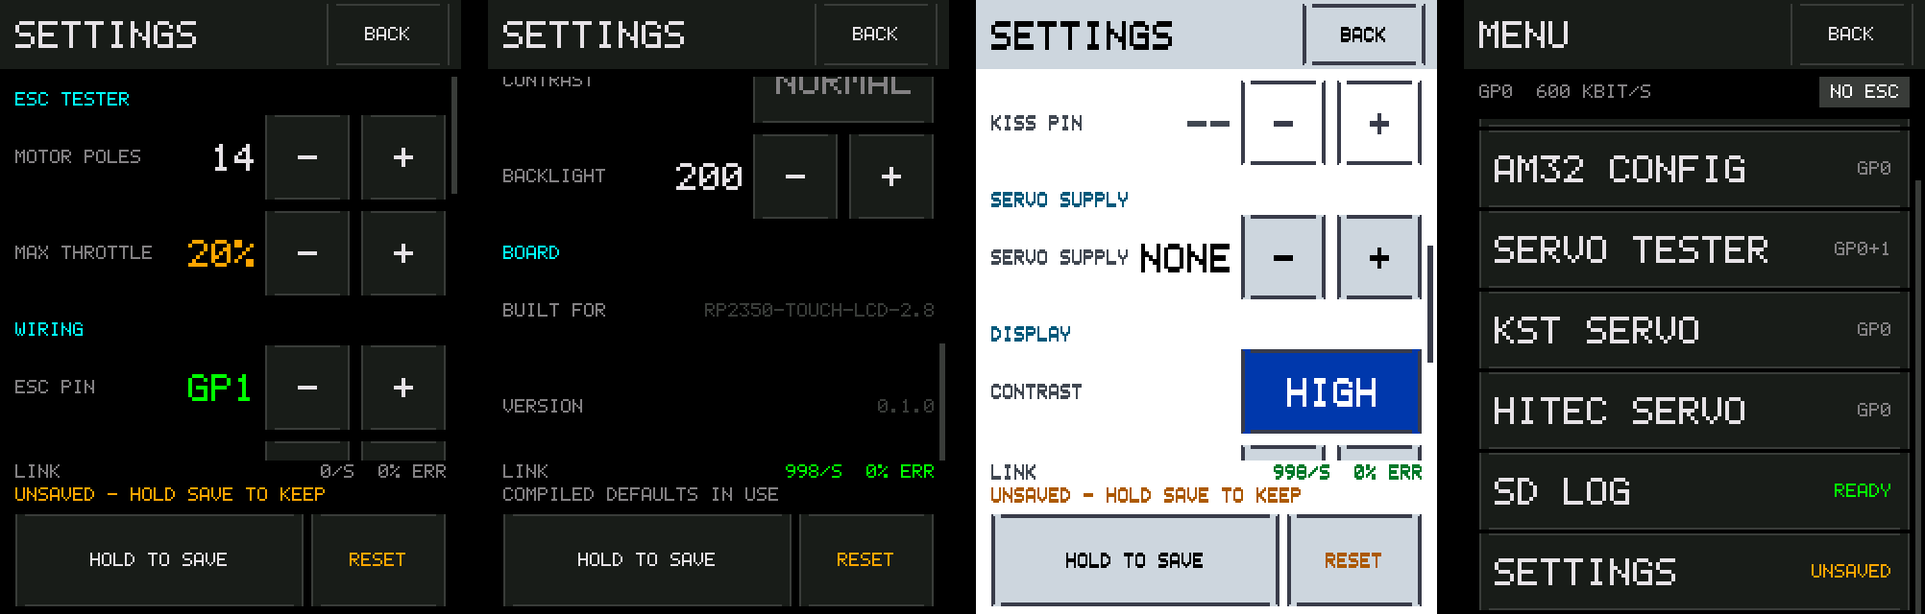
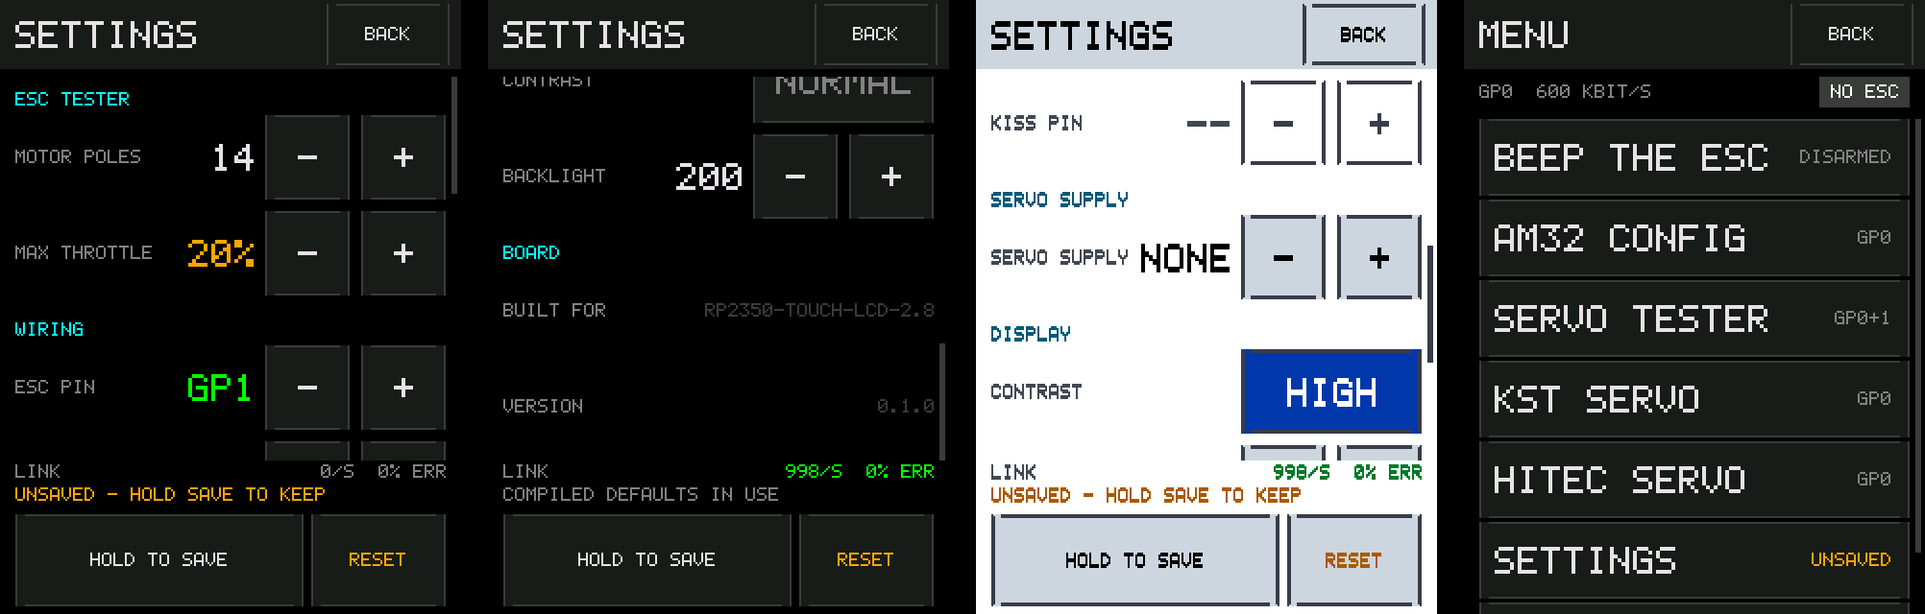
MENU: SETTINGS is the sixth row, SD LOG the seventh
Six rows fit the 240x320 screen and the seventh needs a 36 px drag, so
SETTINGS showed 6 px and its UNSAVED status was hidden after leaving it.
Swap the last two registry entries; update the tests, previews and docs.

Changed region(s): [[0.7735, 0.1875, 1.0, 1.0], [0.9591, 0.375, 0.99, 0.4062]]

diff --git a/test/test_menu.cpp b/test/test_menu.cpp
@@ -229,18 +229,21 @@ static void testPinsBusy() {
 	bool busySeen = uiCurrentScreen() == UiScreenId::Menu && pinClaimState() != ClaimState::Free;
 	checkTrue("RESTART DSHOT returns to MENU while the claim restores", busySeen);
 	if (busySeen) {
-		// SETTINGS is MENU's seventh row: a drag brings it whole, with no pump
-		// pass, so the claim stays Restoring.
-		fakePress(120, 250); framesNoPump(1);
-		for (int k = 1; k <= 12; k++) { fakeHold(120, 250 - 6 * k); framesNoPump(1); }
-		fakeRelease(); framesNoPump(1);
+		// SETTINGS is MENU's sixth row, whole at scroll 0. SD LOG is the
+		// seventh: a drag brings it whole, with no pump pass, so the claim
+		// stays Restoring.
 		const UiControlId settingsRow = UI_ROW(uiMenuRowOf(&UI_SETTINGS), Row);
-		checkInt("SETTINGS' row is whole", ctlRect(settingsRow).h, 40);
+		checkInt("SETTINGS' row is whole without a drag", ctlRect(settingsRow).h, 40);
 		checkTrue("SERVO TESTER does not act", !ctlEnabled(menuRow(&UI_SERVO)));
 		checkTrue("nor AM32 CONFIG", !ctlEnabled(menuRow(&UI_AM32)));
 		checkTrue("nor SETTINGS, which changes the wiring the claim latched",
 		          !ctlEnabled(settingsRow));
-		checkTrue("SD LOG, which claims nothing, acts", ctlEnabled(menuRow(&UI_SDLOG)));
+		fakePress(120, 250); framesNoPump(1);
+		for (int k = 1; k <= 12; k++) { fakeHold(120, 250 - 6 * k); framesNoPump(1); }
+		fakeRelease(); framesNoPump(1);
+		const UiControlId logRow = UI_ROW(uiMenuRowOf(&UI_SDLOG), Row);
+		checkInt("SD LOG's row is whole after the drag", ctlRect(logRow).h, 40);
+		checkTrue("SD LOG, which claims nothing, acts", ctlEnabled(logRow));
 		fakeDumpFrame("shot_menu_pins_busy.ppm");
 		UiControl c;
 		ctlFind(menuRow(&UI_SERVO), &c);
@@ -273,9 +276,9 @@ static void testMenuScroll() {
 	};
 	static const UiMenuEntry seven[] = {
 		{ "BEEP THE ESC", 8, &UI_BEEP }, { "AM32 CONFIG", 9, &UI_AM32 },
-		{ "SERVO TESTER", 9, &UI_SERVO }, { "SD LOG", 10, &UI_SDLOG },
-		{ "SETTINGS", 9, &UI_SETTINGS }, { "SD LOG", 10, &UI_SDLOG },
-		{ "SETTINGS", 9, &UI_SETTINGS },
+		{ "SERVO TESTER", 9, &UI_SERVO }, { "KST SERVO", 9, &UI_KST },
+		{ "HITEC SERVO", 9, &UI_HITEC }, { "SETTINGS", 9, &UI_SETTINGS },
+		{ "SD LOG", 10, &UI_SDLOG },
 	};
 	freshTester();
 
@@ -306,6 +309,32 @@ static void testMenuScroll() {
 	checkControlTable("MENU of seven, scrolled");
 	tapId(UI_FIX(UI_BACK));
 	uiMenuUseRegistry(nullptr, 0);
+}
+
+/** @brief The built registry: SETTINGS is the sixth row, whole and tappable at 0 px. */
+static void testSettingsRowVisible() {
+	section("MENU: SETTINGS is the sixth row, whole without a drag");
+	freshTester();
+	uiMenuUseRegistry(nullptr, 0);
+	openMenu();
+	checkInt("SETTINGS is the sixth row", uiMenuRowOf(&UI_SETTINGS), 5);
+	checkInt("SD LOG is the seventh row", uiMenuRowOf(&UI_SDLOG), 6);
+	const UiControlId settingsRow = UI_ROW(5, Row);
+	checkInt("SETTINGS is whole at 0 px", ctlRect(settingsRow).h, 40);
+	checkInt("and ends at y 311", ctlRect(settingsRow).y + ctlRect(settingsRow).h, 312);
+	checkTrue("SD LOG, the seventh, is cut at 0 px", !ctlEnabled(UI_ROW(6, Row)));
+	checkTrue("SETTINGS acts at 0 px", ctlEnabled(settingsRow));
+	tapId(settingsRow);
+	checkTrue("a tap with no drag opens SETTINGS", uiCurrentScreen() == UiScreenId::Settings);
+	tapId(UI_FIX(UI_BACK));
+	checkTrue("BACK lands on MENU", uiCurrentScreen() == UiScreenId::Menu);
+	checkTrue("SD LOG is cut again at 0 px", !ctlEnabled(UI_ROW(6, Row)));
+	checkTrue("a drag brings SD LOG whole and acts",
+	          ctlEnabled(menuRow(&UI_SDLOG)) && ctlRect(UI_ROW(6, Row)).h == 40);
+	tapId(menuRow(&UI_SDLOG));
+	checkTrue("and a tap opens SD LOG", uiCurrentScreen() == UiScreenId::SdLog);
+	tapId(UI_FIX(UI_BACK));
+	tapId(UI_FIX(UI_BACK));
 }
 
 /** @brief Opens SETTINGS from a fresh tester. */
@@ -613,9 +642,9 @@ static void testMenuScrollResets() {
 	section("MENU: a tool's return opens MENU at 0 px");
 	static const UiMenuEntry seven[] = {
 		{ "BEEP THE ESC", 8, &UI_BEEP }, { "AM32 CONFIG", 9, &UI_AM32 },
-		{ "SERVO TESTER", 9, &UI_SERVO }, { "SD LOG", 10, &UI_SDLOG },
-		{ "SETTINGS", 9, &UI_SETTINGS }, { "SD LOG", 10, &UI_SDLOG },
-		{ "SETTINGS", 9, &UI_SETTINGS },
+		{ "SERVO TESTER", 9, &UI_SERVO }, { "KST SERVO", 9, &UI_KST },
+		{ "HITEC SERVO", 9, &UI_HITEC }, { "SETTINGS", 9, &UI_SETTINGS },
+		{ "SD LOG", 10, &UI_SDLOG },
 	};
 	freshTester();
 	uiMenuUseRegistry(seven, 7);
@@ -625,7 +654,7 @@ static void testMenuScrollResets() {
 	fakeRelease(); menuFrames(1);
 	checkInt("scrolled 36 px: the seventh row at y 278", ctlRect(UI_ROW(6, Row)).y, 278);
 	tapId(UI_ROW(6, Row));
-	checkTrue("its SETTINGS opens", uiCurrentScreen() == UiScreenId::Settings);
+	checkTrue("its SD LOG opens", uiCurrentScreen() == UiScreenId::SdLog);
 	tapId(UI_FIX(UI_BACK));
 	checkTrue("BACK lands on MENU", uiCurrentScreen() == UiScreenId::Menu);
 	checkTrue("at 0 px: the first row whole at y 62",
@@ -678,6 +707,7 @@ void runMenuTests() {
 	testMenuDisarmAndBeep();
 	testPinsBusy();
 	testMenuScroll();
+	testSettingsRowVisible();
 	testSettingsScroll();
 	testSettingsCutControl();
 	testSettingsRows();

diff --git a/test/test_ui.cpp b/test/test_ui.cpp
@@ -1221,6 +1221,10 @@ static void testSettingsSave() {
 	tapId(UI_FIX(UI_BACK));
 	frames(2);
 	checkTrue("BACK from SETTINGS reaches MENU", uiCurrentScreen() == UiScreenId::Menu);
+	// MENU opens at 0 px: the SETTINGS row, the sixth, is whole and its
+	// status shows with no drag.
+	checkInt("MENU's SETTINGS row is whole at 0 px, no drag",
+	         ctlRect(UI_ROW(uiMenuRowOf(&UI_SETTINGS), Row)).h, 40);
 	checkTrue("MENU's SETTINGS row reads UNSAVED in amber",
 	          menuStatusIs(ctlRect(menuRow(&UI_SETTINGS)), "UNSAVED", C_AMBER, C_PANEL));
 	fakeDumpFrame("shot_menu_unsaved.ppm");
@@ -2484,11 +2488,10 @@ static void testHitBoundaries() {
 	checkTrue("the tester's MENU opens MENU", uiCurrentScreen() == UiScreenId::Menu);
 
 	// MENU's rows are 40 px tall at a 42 px pitch: BEEP ends where the gap
-	// above AM32 CONFIG starts, and SD LOG where the gap above SETTINGS
-	// starts. A tap in either gap must hit neither neighbour -- an inclusive
+	// above AM32 CONFIG starts, and SETTINGS where the gap below it starts. A tap in either gap must hit neither neighbour -- an inclusive
 	// far edge would make adjacent rows overlap.
 	const UiRect beep  = ctlRect(menuRow(&UI_BEEP));
-	const UiRect sdlog = ctlRect(menuRow(&UI_SDLOG));
+	const UiRect settingsRow = ctlRect(menuRow(&UI_SETTINGS));
 	int beeps = fakeBeepRequests();
 	tap(beep.x + beep.w / 2, beep.y + beep.h);
 	frames(2);
@@ -2496,9 +2499,9 @@ static void testHitBoundaries() {
 	checkTrue("and opens nothing", uiCurrentScreen() == UiScreenId::Menu);
 	tap(beep.x + beep.w, beep.y + beep.h / 2);
 	checkInt("one past BEEP's right edge sends nothing", fakeBeepRequests(), beeps);
-	tap(sdlog.x + sdlog.w / 2, sdlog.y + sdlog.h);
+	tap(settingsRow.x + settingsRow.w / 2, settingsRow.y + settingsRow.h);
 	frames(2);
-	checkTrue("a tap in the SD LOG/SETTINGS gap left MENU up",
+	checkTrue("a tap in the gap below SETTINGS left MENU up",
 	          uiCurrentScreen() == UiScreenId::Menu);
 	tap(beep.x + beep.w / 2, beep.y + beep.h - 1);
 	checkInt("BEEP's last pixel row is BEEP", fakeBeepRequests(), beeps + 1);
@@ -2550,11 +2553,11 @@ static void testMenuDestinations() {
 	uint8_t rows = 0;
 	uiMenuEntries(&rows);
 	checkInt("MENU has seven rows", rows, 7);
-	checkTrue("BEEP, AM32 CONFIG, SERVO TESTER, KST SERVO, HITEC SERVO, SD LOG, SETTINGS, in that order",
+	checkTrue("BEEP, AM32 CONFIG, SERVO TESTER, KST SERVO, HITEC SERVO, SETTINGS, SD LOG, in that order",
 	          uiMenuRowOf(&UI_BEEP) == 0 && uiMenuRowOf(&UI_AM32) == 1 &&
 	          uiMenuRowOf(&UI_SERVO) == 2 && uiMenuRowOf(&UI_KST) == 3 &&
-	          uiMenuRowOf(&UI_HITEC) == 4 && uiMenuRowOf(&UI_SDLOG) == 5 &&
-	          uiMenuRowOf(&UI_SETTINGS) == 6);
+	          uiMenuRowOf(&UI_HITEC) == 4 && uiMenuRowOf(&UI_SETTINGS) == 5 &&
+	          uiMenuRowOf(&UI_SDLOG) == 6);
 
 	// A pixel inside each row, clear of its label: the panel fill of a row.
 	// It is 5 px in from the left edge and 8 px down from the top.
@@ -2919,6 +2922,7 @@ static void testPressedLookClears() {
 	tapId(UI_FIX(UI_BACK));
 	frames(2);
 	checkTrue("BACK from SD LOG reaches MENU", uiCurrentScreen() == UiScreenId::Menu);
+	menuRow(&UI_SDLOG);                       // MENU opens at 0 px: drag to the row again
 	checkTrue("and the row is at rest",
 	          fakeRegionHash(log.x, log.y, log.w, log.h) == idle);
 

diff --git a/src/ui_registry.cpp b/src/ui_registry.cpp
@@ -19,8 +19,8 @@ constexpr UiMenuEntry UI_MENU[] = {
 	{ "SERVO TESTER",  9, &UI_SERVO    },   // ui_servo.cpp: GP0+1, PINS BUSY
 	{ "KST SERVO",     9, &UI_KST      },   // ui_kst.cpp: GP0, PINS BUSY
 	{ "HITEC SERVO",   9, &UI_HITEC    },   // ui_hitec.cpp: GP0, PINS BUSY
-	{ "SD LOG",       10, &UI_SDLOG    },   // ui_sdlog.cpp: CARD ERROR
 	{ "SETTINGS",      9, &UI_SETTINGS },   // ui_settings.cpp: PINS BUSY, UNSAVED
+	{ "SD LOG",       10, &UI_SDLOG    },   // ui_sdlog.cpp: CARD ERROR
 };
 constexpr uint8_t UI_MENU_COUNT = (uint8_t)(sizeof(UI_MENU) / sizeof(UI_MENU[0]));
 

diff --git a/STATUS.md b/STATUS.md
@@ -206,7 +206,7 @@ record either way.
 | Blackbox logs in `LOGS/` (`SD_LOG_DIR_PATH`) | none: `sd_log.cpp` is typechecked only | not tested on hardware |
 | SD write cache for the backup claims (`src/sdio/sd_cache.*`, `src/card_cache.*`, the glue in `src/sdio/sd_card_glue.c`, `sdh_write_start()` and `sdh_write_poll()`); [sd-write-cache.md](docs/design/sd-write-cache.md) | the cache against a fake card (`runSdCacheTests`), the asynchronous block write against the simulated card (`runSdioTests`); the KST write waiting for the flush, a failed flush, the claim turning the cache on and off, a running log stopped, AM32's write refused after a failed flush, against a fake of `card_cache.h`; the glue and `card_cache.cpp` are built by the firmware only | not tested on hardware |
 | Pin claim (`src/pin_claim.*`) and core1 job dispatch (`src/core1_job.*`), the zero-throttle drain in `src/esc_task.*` | each refusal rule at its 500 ms boundary and their order; the handover decisions of `escTaskPoll()` (`escHandoverStep()`, `escDrainSlot()`, `escPumpFrameSent()`, `escPumpBind()`) one 1 ms slot at a time: 250 zero frames, the teardown 251 ms after the last throttle frame, the bind disarmed; the order of the two cores' steps against fake jobs, BACK and RETRY, Restoring, the unplug-page rule, the restore wiring, the start guard, the heartbeat rule across a millis() rollover; the PIO and pad calls around those decisions are compiled only | not tested on hardware; open item 8 |
-| MENU layout (`src/ui_menu.cpp`, `src/ui_registry.cpp`): BEEP THE ESC, AM32 CONFIG, SERVO TESTER, KST SERVO, HITEC SERVO, SD LOG and SETTINGS as 40 px rows, scrolled 36 px to reach SETTINGS | every registry entry opens and BACK returns to MENU; opening MENU disarms; BEEP's flash and refusal on its row; `PINS BUSY` while the claim restores and a tap on it opens nothing; six rows do not scroll and seven scroll 36 px; the label and status fit check at build time | not recorded |
+| MENU layout (`src/ui_menu.cpp`, `src/ui_registry.cpp`): BEEP THE ESC, AM32 CONFIG, SERVO TESTER, KST SERVO, HITEC SERVO, SETTINGS and SD LOG as 40 px rows, scrolled 36 px to reach SD LOG | every registry entry opens and BACK returns to MENU; opening MENU disarms; BEEP's flash and refusal on its row; `PINS BUSY` while the claim restores and a tap on it opens nothing; six rows do not scroll and seven scroll 36 px; SETTINGS, the sixth row, is whole and takes a tap at 0 px, and SD LOG, the seventh, is cut until MENU is dragged; the UNSAVED status shows on MENU at 0 px after leaving SETTINGS; the label and status fit check at build time | not recorded |
 | Servo tester: the pure model (`src/servo_model.*`), the PWM driver (`src/servo_pwm.*`), the core1 job (`src/servo_job.*`), the slider and the screens (`src/ui_slider.*`, `src/ui_servo.cpp`); rcbench's sweep and PWM fold in `lib/rcbench/` | profiles, limits at their boundaries, steppers to their stops, command, angle and pulse mappings, SPEED, the dial's hit area; the PWM driver's bind, write, release and sharing rules against a register fake; SAFE at level 0, CENTRE at START, STOP on the next pass, the slew, sweeps, REVERSE B, the trip at 250 ms across a millis() wrap, kept across a rebind, the profile rebind; no pulse cut short at a release or a rebind, against a model of the counter and the latched compare; released pins pulled down; the screens through the UI: HOLD TO START at 1000 ms, the drag rules, the SET warning and HOLD TO APPLY, STOP on SET, the AUX refusals through the claim, the unplug page; rcbench's own sweep and fold tests; the SDK calls are run against the fake only | not tested on hardware; open item 9 |
 | KST programming: rcbench's session, line driver and file store (`lib/rcbench/`), the search (`src/kst_seek.*`), the core1 job (`src/kst_job.*`) and its line (`src/kst_line_port.*`), the files on the card (`src/kst_files.*`), the screen (`src/ui_kst.cpp`, `src/kst_view.*`) | rcbench's seven tests, 298 cases, the line's PIO program among them in a model (`test_kst_pio.c`); the search and the job against rcbench's simulated servo, the files against an in-memory FAT (File Allocation Table) volume, the backup in `BACKUP/` and SAVE AS in `KST/` up to 50 files among them, the card phases' block counts over FatFs R0.15 itself (`make -C test kstcount`), the screen through MENU against both (`runKstTests`); the line driver and `kst_line_port.cpp` are built by the firmware and typechecked only | not recorded: no frame of the line driver has been on a pin (`kst_line.h`) |
 | SETTINGS layout (`src/ui_settings.cpp`): sections ESC TESTER, WIRING, SERVO SUPPLY, DISPLAY and BOARD in one scrolling list | the scroll range, 0 px at opening and 450 px at most; each row by id; no scroll from a press on a control; a cut control takes a press only while 40 px show; HOLD TO SAVE in place at every scroll position and saving at the end of the list; the pole count reaches the eRPM divisor, the ceiling steps by 5 %, and RESET restores both | not recorded |
@@ -477,7 +477,7 @@ binary, `dshot_tests`. `test/test_main.cpp` runs twenty-one suites:
 | `runIdTests` | `test_ids.cpp` | the control tables of `ui_screen.h` on the tester, MENU, SETTINGS, SD LOG in three card states, AM32 CONFIG in its handover and its list, and SERVO's three views: ids unique, rectangles inside the panel and apart, BACK at its rectangle, the enabled flags against the state they follow; the id helpers of `ui_ids.h`, and that they report an absent or misgated control |
 | `runBackupTests` | `test_backup_ring.cpp` | the ring of `BACKUP/`: its rules, saves of two devices and a rename under another device's number, a rename FatFs reports failed that took effect, two files under one number, the list of one device from the latest, a gap, no marker and an unreadable one, a directory under a ring name, names outside the ring, a marker or a read-only oldest file the card refuses, a change of directory that fails, load, no card and a USB-held card with no FatFs call |
 | `runSdCacheTests` | `test_sd_cache.cpp` | the SD write cache over a fake card: the queue's order, a read of a queued sector, one swap check per batch, no command while busy, read cache hits and the oldest pushed out, a miss that waits for the block in flight, a full queue, retries, a failed block, a changed serial number, refusals with the cache off |
-| `runMenuTests` | `test_menu.cpp` | MENU, SETTINGS and the navigation through the real UI: SD LOG's BACK to MENU, every registry entry opened and left, MENU's disarm, BEEP's flash, `PINS BUSY` on AM32, SERVO and SETTINGS, MENU's scroll over registries of six and seven rows and its return at 0 px, every MENU status and SETTINGS value within its widest, the SETTINGS scroll range, each row by id, a cut control under 40 px, HOLD TO SAVE and the UNSAVED note at every scroll position, AM32's own wait beside another claim |
+| `runMenuTests` | `test_menu.cpp` | MENU, SETTINGS and the navigation through the real UI: SD LOG's BACK to MENU, every registry entry opened and left, MENU's disarm, BEEP's flash, `PINS BUSY` on AM32, SERVO and SETTINGS, MENU's scroll over registries of six and seven rows and its return at 0 px, SETTINGS whole at 0 px and SD LOG cut until dragged, every MENU status and SETTINGS value within its widest, the SETTINGS scroll range, each row by id, a cut control under 40 px, HOLD TO SAVE and the UNSAVED note at every scroll position, AM32's own wait beside another claim |
 
 `test/servo.mk`, `test/kst.mk`, `test/hitec.mk` and `test/rx.mk` list each
 feature's sources and test files for `test/Makefile`, as `src/servo.cmake`,

diff --git a/wiki/Die-Bildschirme.md b/wiki/Die-Bildschirme.md
@@ -12,8 +12,8 @@ Tester ──MENU──> MENU ──┬── AM32 CONFIG  ──BACK──> MEN
    │                    ├── KST SERVO    ──BACK──> Verlassenseite ──> Abziehseite ──> MENU
    │                    ├── HITEC SERVO  ──BACK──> Verlassenseite ──> Abziehseite ──> MENU
    │                    │   (in der Familienauswahl führt BACK zu MENU; während des Eintritts zur Abziehseite)
-   │                    ├── SD LOG       ──BACK──> MENU
-   │                    └── SETTINGS     ──BACK──> MENU
+   │                    ├── SETTINGS     ──BACK──> MENU
+   │                    └── SD LOG       ──BACK──> MENU
    └──── BACK auf MENU ─┘
 ```
 
@@ -99,10 +99,12 @@ Unter der Leiste steht eine Liste mit sieben Zeilen von 40 px Höhe und 42 px
 Abstand. Jede Zeile zeigt links ihren Namen und rechts ihren Zustand. `BACK`
 führt zum Tester zurück.
 
-**Verschieben.** Sechs Zeilen passen auf den Bildschirm. Von der siebten,
-SETTINGS, sind zuerst nur 6 px sichtbar. Ziehe MENU um 36 px nach oben, um
-SETTINGS ganz zu sehen; erst dann nimmt die Zeile ein Tippen an. Ein 3 px
-breiter Rollbalken am rechten Rand zeigt die Lage.
+**Verschieben.** Sechs Zeilen passen auf den Bildschirm. SETTINGS ist die
+sechste, ganz sichtbar und ohne Ziehen antippbar, so bleibt ihr Zustand
+`UNSAVED` im Blick. Von der siebten, SD LOG, sind zuerst nur 6 px sichtbar.
+Ziehe MENU um 36 px nach oben, um SD LOG ganz zu sehen; erst dann nimmt die
+Zeile ein Tippen an. Ein 3 px breiter Rollbalken am rechten Rand zeigt die
+Lage.
 
 | Zeile | Zustand rechts | Ein Tippen |
 |---|---|---|
@@ -111,8 +113,8 @@ breiter Rollbalken am rechten Rand zeigt die Lage.
 | **SERVO TESTER** | die beiden Signalpins, `GP0+1`; `PINS BUSY` | Öffnet den Servotester |
 | **KST SERVO** | der ESC-Pin, `GP0`; `PINS BUSY` | Öffnet den KST-Programmierer. Siehe [KST-Programmierung](KST-Programmierung) |
 | **HITEC SERVO** | der ESC-Pin, `GP0`; `PINS BUSY` | Öffnet den Hitec-Programmierer. Siehe [Hitec-Programmierung](Hitec-Programmierung) |
-| **SD LOG** | `NO CARD`, `READY`, `RECORDING`, `CARD ERROR`, oder `USB DRIVE`, solange ein Computer die Karte hält | Öffnet den Aufzeichnungs-Bildschirm |
 | **SETTINGS** | `UNSAVED`, solange ein Wert vom Flash abweicht, sonst nichts; `PINS BUSY`, solange die Pins noch zurückgegeben werden, und öffnet sich nicht | Öffnet SETTINGS |
+| **SD LOG** | `NO CARD`, `READY`, `RECORDING`, `CARD ERROR`, oder `USB DRIVE`, solange ein Computer die Karte hält | Öffnet den Aufzeichnungs-Bildschirm |
 
 `PINS BUSY` heißt, dass die Signalpins noch belegt sind, zum Beispiel während
 DShot nach dem Servotester, dem KST-Programmierer oder dem Hitec-Programmierer

diff --git a/wiki/The-Screens.md b/wiki/The-Screens.md
@@ -11,8 +11,8 @@ Tester ──MENU──> MENU ──┬── AM32 CONFIG  ──BACK──> MEN
    │                    ├── KST SERVO    ──BACK──> leave page ──> unplug page ──> MENU
    │                    ├── HITEC SERVO  ──BACK──> leave page ──> unplug page ──> MENU
    │                    │   (on the family view BACK returns to MENU; during the entry, to the unplug page)
-   │                    ├── SD LOG       ──BACK──> MENU
-   │                    └── SETTINGS     ──BACK──> MENU
+   │                    ├── SETTINGS     ──BACK──> MENU
+   │                    └── SD LOG       ──BACK──> MENU
    └──── BACK on MENU ──┘
 ```
 
@@ -94,9 +94,11 @@ Below the strip is a list of seven rows, 40 px tall at a 42 px pitch. Each
 row has a name on the left and its state on the right. `BACK` returns to the
 tester.
 
-**Scrolling.** Six rows fit the screen. The seventh, SETTINGS, shows only
-6 px at first. Drag MENU up 36 px to bring SETTINGS into view; it takes a tap
-only then. A 3 px scroll bar at the right edge shows the position.
+**Scrolling.** Six rows fit the screen. SETTINGS is the sixth, whole and
+tappable without a drag, so its `UNSAVED` status stays in view. The seventh,
+SD LOG, shows only 6 px at first. Drag MENU up 36 px to bring SD LOG into
+view; it takes a tap only then. A 3 px scroll bar at the right edge shows the
+position.
 
 | Row | State on the right | A tap |
 |---|---|---|
@@ -105,8 +107,8 @@ only then. A 3 px scroll bar at the right edge shows the position.
 | **SERVO TESTER** | the two signal pins, `GP0+1`; `PINS BUSY` | Opens the servo tester |
 | **KST SERVO** | the ESC pin, `GP0`; `PINS BUSY` | Opens the KST programmer. See [KST Programming](KST-Programming) |
 | **HITEC SERVO** | the ESC pin, `GP0`; `PINS BUSY` | Opens the Hitec programmer. See [Hitec Programming](Hitec-Programming) |
-| **SD LOG** | `NO CARD`, `READY`, `RECORDING`, `CARD ERROR`, or `USB DRIVE` while a computer holds the card | Opens the logging screen |
 | **SETTINGS** | `UNSAVED` while a value differs from flash, else nothing; `PINS BUSY` while the pins are still restoring, and it does not open | Opens SETTINGS |
+| **SD LOG** | `NO CARD`, `READY`, `RECORDING`, `CARD ERROR`, or `USB DRIVE` while a computer holds the card | Opens the logging screen |
 
 `PINS BUSY` means the signal pins are still in use, for example while DShot
 restarts after the servo tester, the KST programmer or the Hitec programmer.

diff --git a/README.md b/README.md
@@ -404,8 +404,8 @@ tester. Every tool's **BACK** returns to MENU.
 | **SERVO TESTER** | the signal pins, `GP0+1`; `PINS BUSY` | Opens the servo tester. See [Servo tester](#servo-tester) |
 | **KST SERVO** | the ESC pin, `GP0`; `PINS BUSY` | Opens the KST servo programmer. See [KST servo programming](#kst-servo-programming) |
 | **HITEC SERVO** | the ESC pin, `GP0`; `PINS BUSY` | Opens the Hitec servo programmer. See [Hitec servo programming](#hitec-servo-programming) |
-| **SD LOG** | `NO CARD`, `READY`, `RECORDING`, `CARD ERROR`, or `USB DRIVE` while a USB host holds the card | Opens the logging status. See below |
 | **SETTINGS** | `UNSAVED` while the live settings differ from flash, else nothing; `PINS BUSY` while the pin claim is not Free, drawn disabled | Opens SETTINGS: the tester, the wiring, the KST servo supply, the display. See below |
+| **SD LOG** | `NO CARD`, `READY`, `RECORDING`, `CARD ERROR`, or `USB DRIVE` while a USB host holds the card | Opens the logging status. See below |
 
 - **BEEP flash**: a tap fills the row for 350 ms (`BEEP_FLASH_MS`): white
   with `SENT`, amber with `REFUSED`. Without it a 6 ms command is not visible
@@ -417,8 +417,10 @@ tester. Every tool's **BACK** returns to MENU.
   the DShot pump runs again, the row reads `PINS BUSY` in amber and a tap
   opens nothing.
 - **Rows**: six rows fit the screen without scrolling. MENU holds seven, so
-  it scrolls by 36 px, with a 3 px scroll bar at x 235: SETTINGS shows 6 px
-  until MENU is dragged up, and takes a tap only then.
+  it scrolls by 36 px, with a 3 px scroll bar at x 235. SETTINGS is the sixth
+  row, whole and tappable without a drag, so its `UNSAVED` status stays in
+  view. SD LOG, the seventh, shows 6 px until MENU is dragged up, and takes
+  a tap only then.
 
 **SD LOG screen**
 
@@ -662,7 +664,8 @@ driver in `src/sdio/`, which is not tested on hardware. The board cannot use
 hardware SPI for the card: its SD clock is on GP19, which is SPI0 TX in the
 pin mux.
 
-Open the screen with **MENU → SD LOG**. By default arming starts a log and
+Open the screen with **MENU → SD LOG**, the seventh row: drag MENU up 36 px
+first. By default arming starts a log and
 disarming stops it (`SD_LOG_AUTO_ON_ARM`). Auto-stop ends only a log that
 auto-start began. **START/STOP** is always available.
 

diff --git a/CHANGELOG.md b/CHANGELOG.md
@@ -351,6 +351,13 @@ protocol.
 
 ### Changed
 
+- MENU lists SETTINGS as the sixth row and SD LOG as the seventh, a swap.
+  Six rows fit the 240 × 320 screen and the seventh needs a 36 px drag, so
+  SETTINGS, which holds the motor pole count, the throttle ceiling and the
+  pins, showed 6 px and its amber `UNSAVED` status was hidden after leaving
+  it. SD LOG's state shows on the tester's status bar (`REC`, `SD`, `NOSD`,
+  `SDERR`) and logging starts on arming, so it loses least below the fold.
+  Reaching SD LOG takes a 36 px drag of MENU.
 - MENU's EDT chip reads `NO ESC` on `C_GRID` while no eRPM frame has arrived
   for 500 ms, the normal state with no ESC connected. Red `EDT OFF` now means
   an ESC answers eRPM without EDT; green `EDT ON` is unchanged.

diff --git a/wiki/Troubleshooting.md b/wiki/Troubleshooting.md
@@ -88,9 +88,9 @@ missing. The cause is unknown. No workaround is known.
 <img src="img/tester-card-held.png" width="240" alt="HOLD TO ARM drawn as an outline, the bar reading EJECT THE USB DRIVE TO ARM">
 
 The throttle bar reads `EJECT THE USB DRIVE TO ARM`: a computer holds the SD
-card over USB (**MENU → SD LOG → USB DRIVE**), and arming is refused until it
-lets go. Eject the drive on the computer, or press `EJECT` on SD LOG. See
-[SD Logging](SD-Logging).
+card over USB (**MENU → SD LOG → USB DRIVE**; drag `MENU` up 36 px to reach
+SD LOG), and arming is refused until it lets go. Eject the drive on the
+computer, or press `EJECT` on SD LOG. See [SD Logging](SD-Logging).
 
 ---
 

diff --git a/docs/design/menu.md b/docs/design/menu.md
@@ -682,6 +682,9 @@ Tests slice C adds:
   BACK once and checks that it lands on the tester; slice C adds a second
   tap, MENU's BACK, changes that check to MENU and then the tester, and
   keeps the check that arming is refused while the host holds the card.
+- The registry's last two rows are SETTINGS, the sixth, then SD LOG, the
+  seventh. At 240 × 320 six rows fit, so SETTINGS is whole at 0 px and its
+  `UNSAVED` status stays in view; SD LOG takes a 36 px drag.
 - Every registry entry: opened from MENU, BACK lands on MENU, through the
   unplug page for SERVO and KST.
 - MENU: disarms on open; BEEP sent and refused flash on the row; no KST row

diff --git a/wiki/Fehlersuche.md b/wiki/Fehlersuche.md
@@ -94,7 +94,8 @@ bei Gas null fehlt. Die Ursache ist unbekannt. Ein Behelf ist nicht bekannt.
 <img src="img/tester-card-held.png" width="240" alt="HOLD TO ARM als Umriss, der Balken zeigt EJECT THE USB DRIVE TO ARM">
 
 Der Gasbalken zeigt `EJECT THE USB DRIVE TO ARM`: Ein Computer hält die
-SD-Karte über USB (**MENU → SD LOG → USB DRIVE**), und Scharfschalten ist
+SD-Karte über USB (**MENU → SD LOG → USB DRIVE**; ziehe `MENU` um 36 px nach
+oben, um SD LOG zu erreichen), und Scharfschalten ist
 gesperrt, bis er sie freigibt. Wirf das Laufwerk am Computer aus oder drücke
 `EJECT` in SD LOG. Siehe [SD-Aufzeichnung](SD-Aufzeichnung).
 

diff --git a/wiki/SD-Aufzeichnung.md b/wiki/SD-Aufzeichnung.md
@@ -45,7 +45,8 @@ während der Aufzeichnung, `SD` im Leerlauf, `SDERR` nach einem Kartenfehler,
 
 ## Den Bildschirm lesen
 
-Öffnen über **MENU → SD LOG**. Die Zeile in `MENU` zeigt denselben Zustand:
+Öffnen über **MENU → SD LOG**. SD LOG ist die siebte Zeile: Ziehe `MENU` um
+36 px nach oben, damit sie sichtbar wird. Die Zeile zeigt denselben Zustand:
 `NO CARD`, `READY`, `RECORDING`, `CARD ERROR`, oder `USB DRIVE`, solange ein
 Computer die Karte hält.
 
